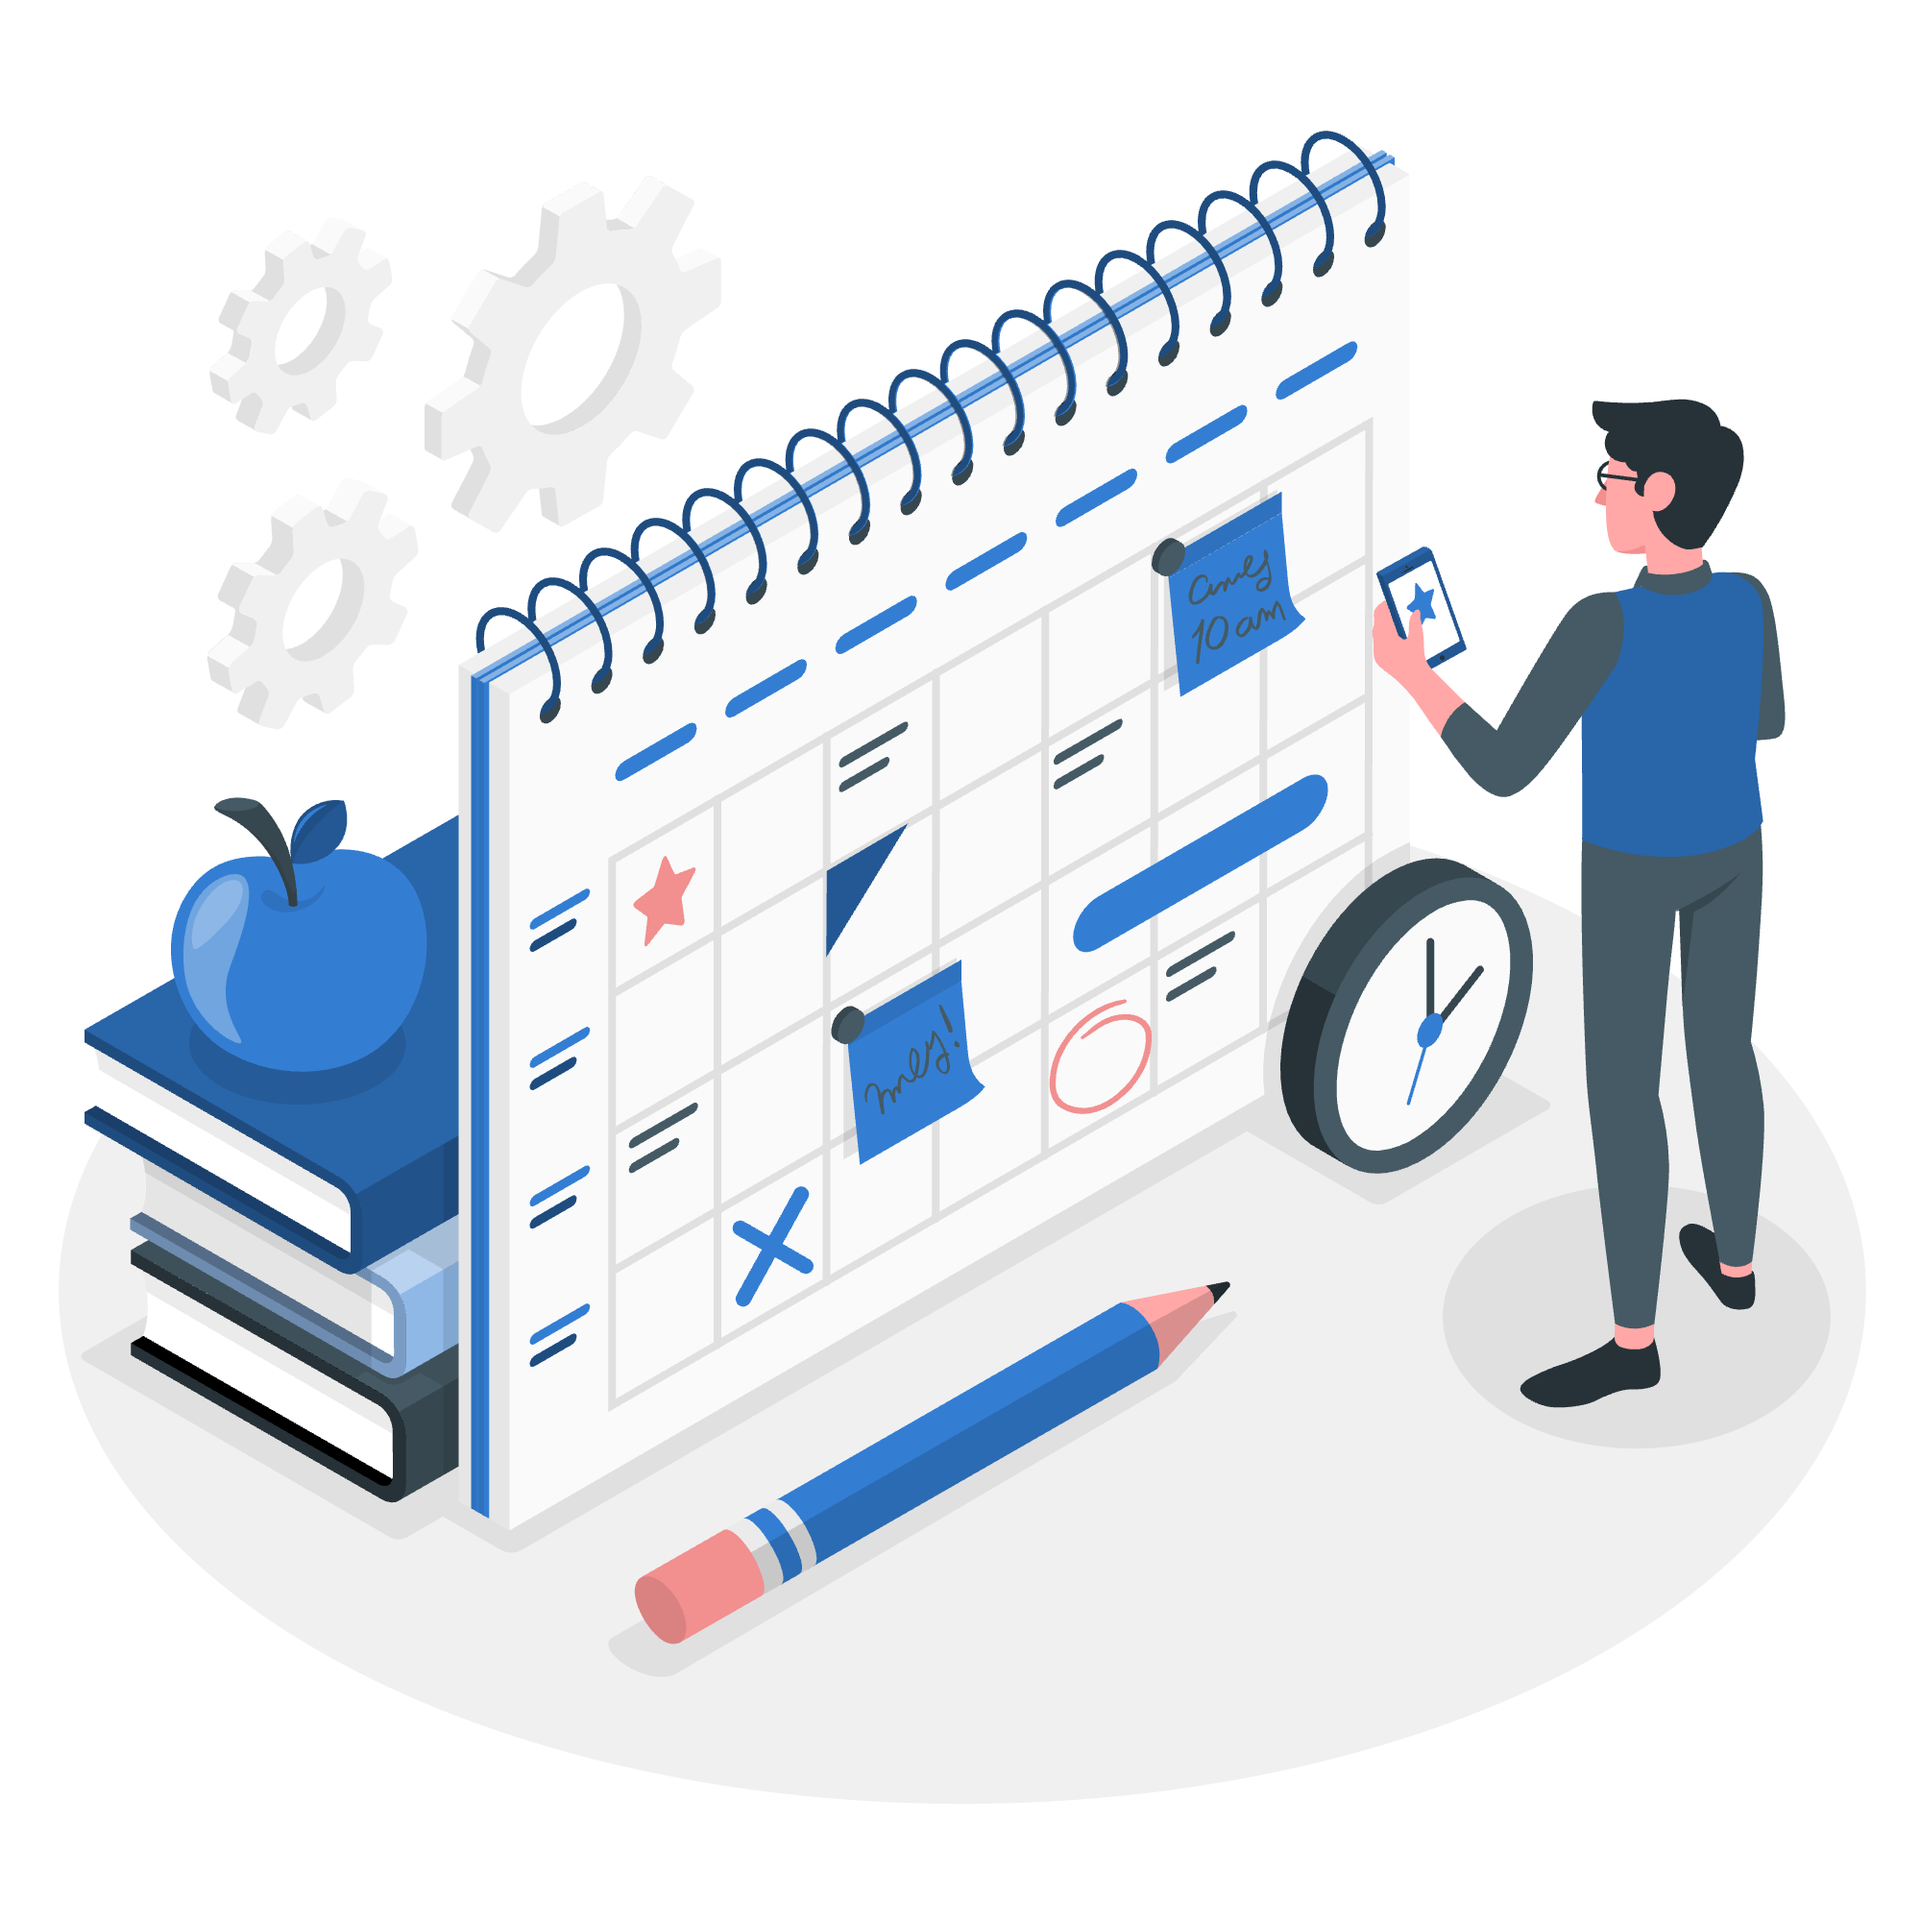
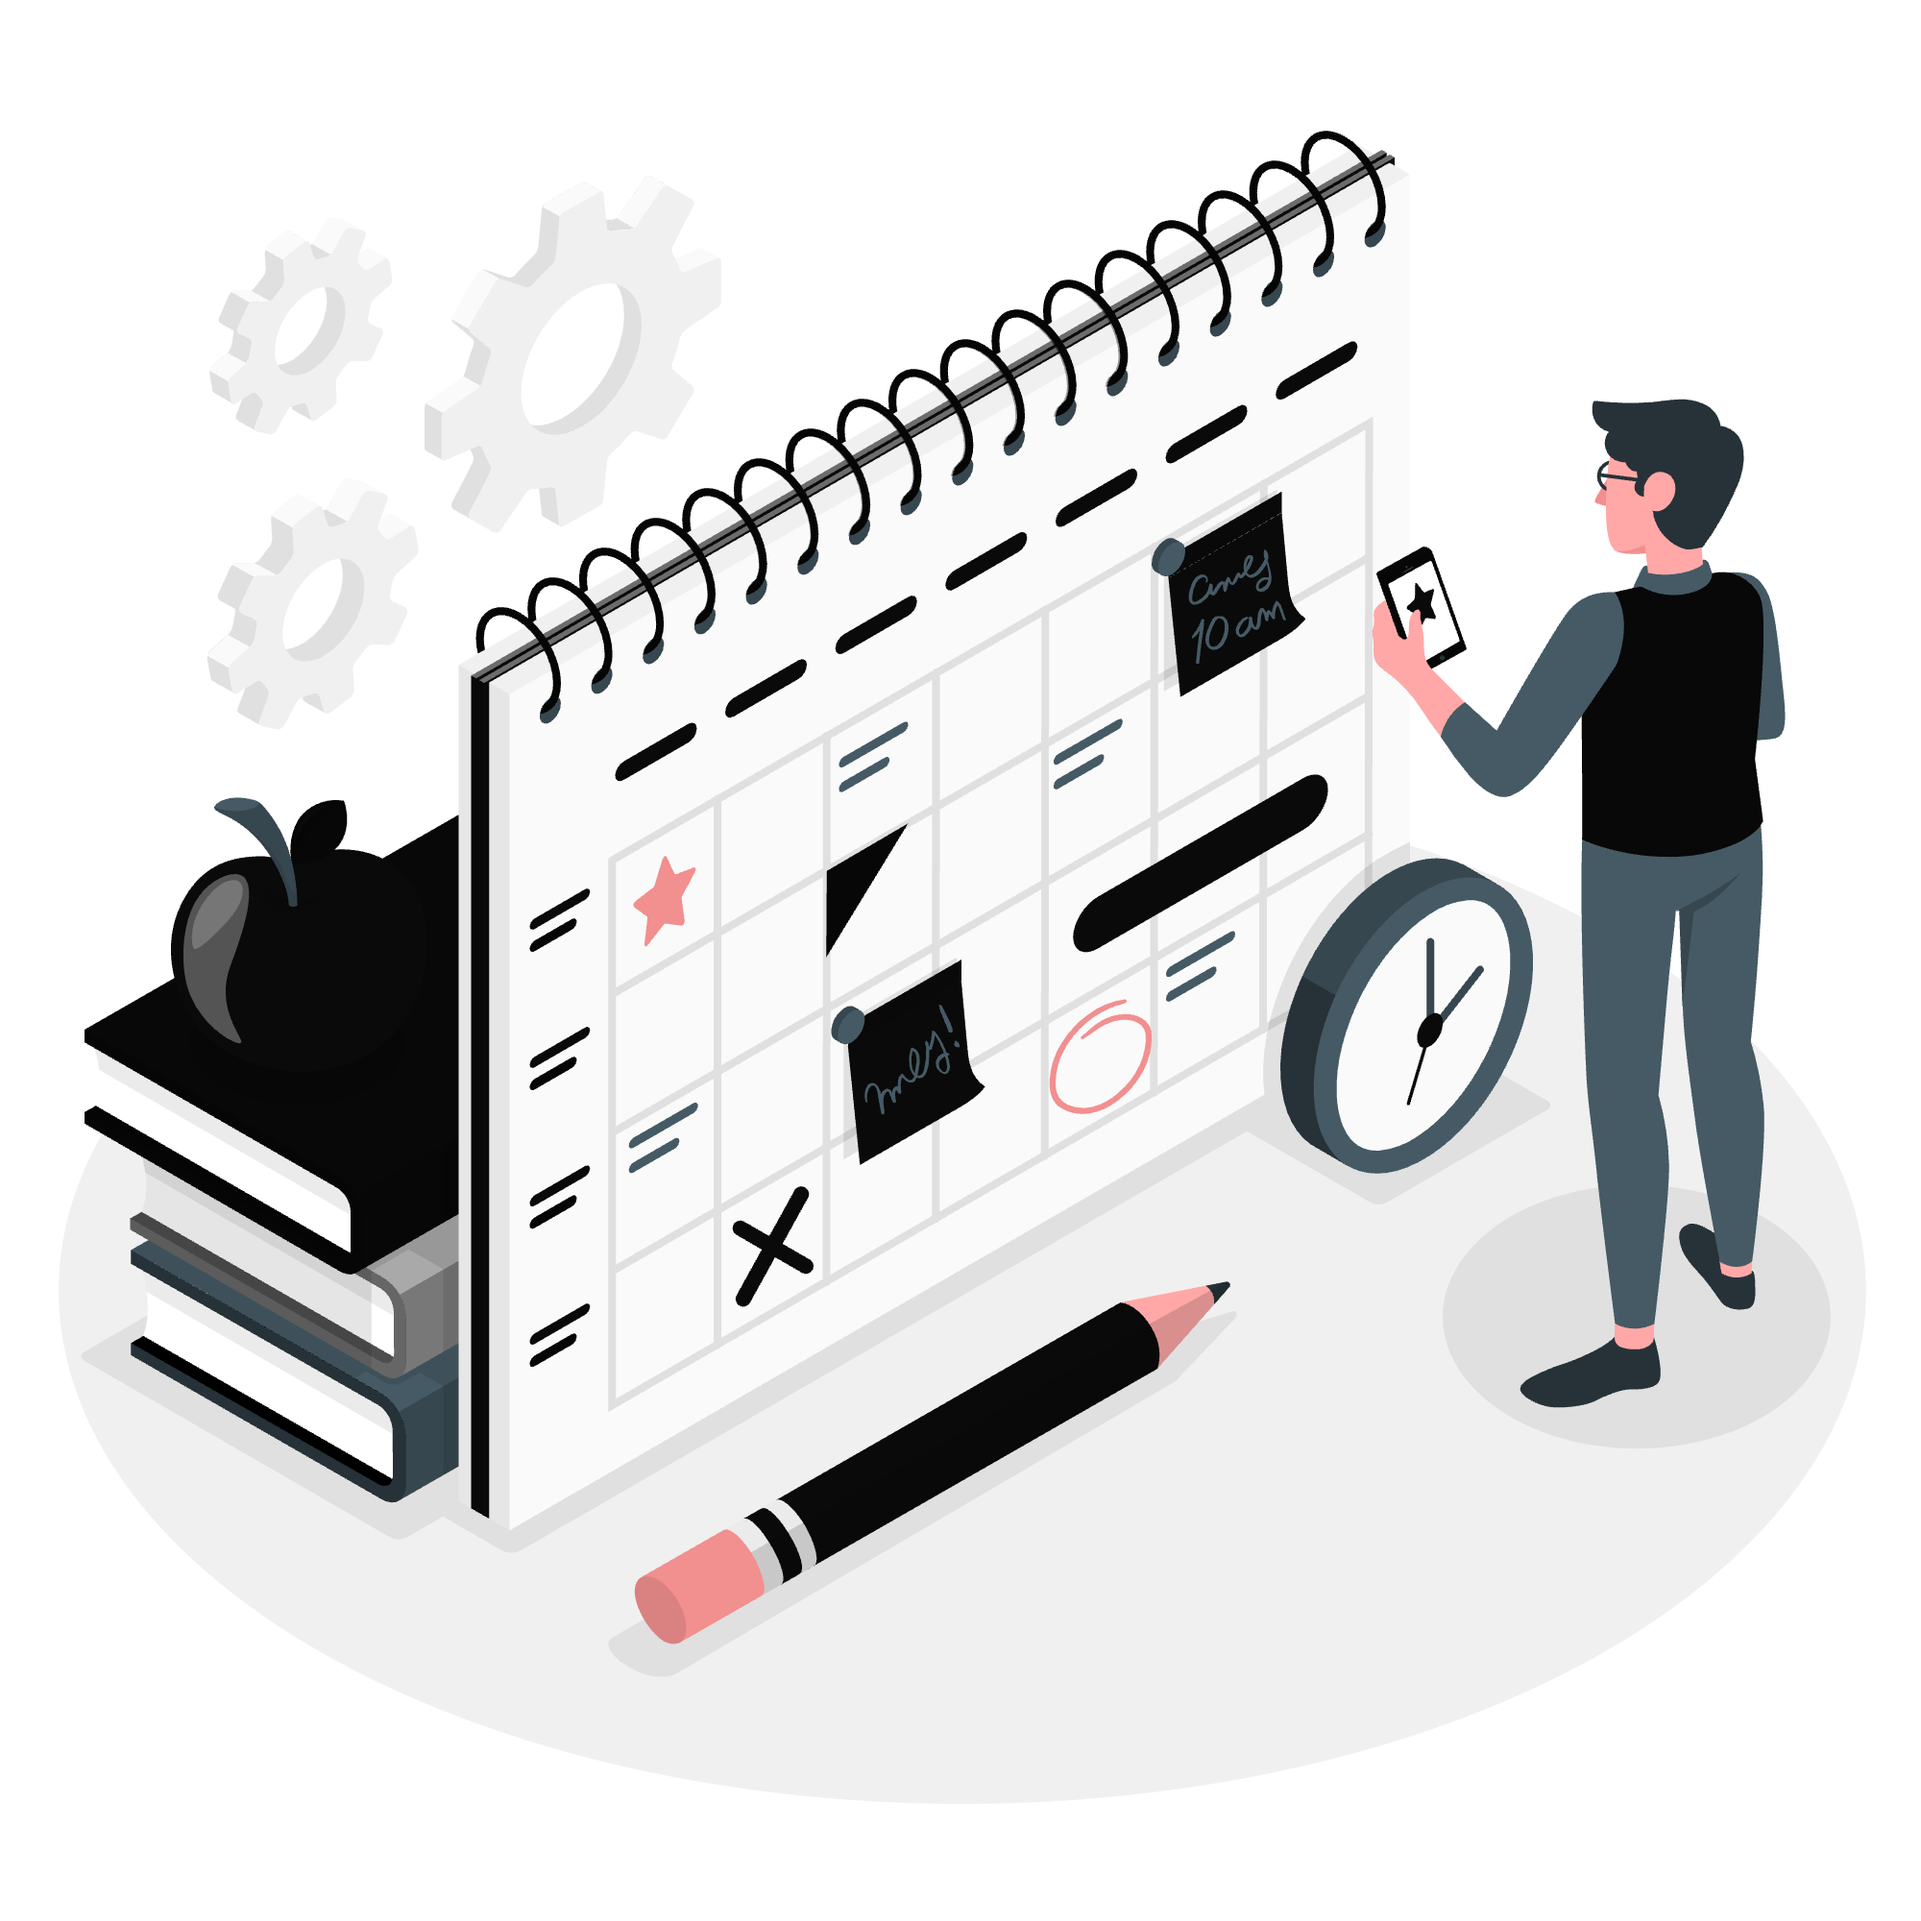
🎨 style: black & white theme

diff --git a/client/constants/theme.ts b/client/constants/theme.ts
@@ -5,11 +5,11 @@ export const lightTheme = {
   roundness: 2,
   colors: {
     ...MD3LightTheme.colors,
-    primary: "#337ed3", // aqua blue
-    secondary: "#715ddc", //light indigo
-    accent: "#8b8de6", //dark indigo
-    foreground: "#052347", //black
-    background: "#d9e3e8", // white & light blue
+    primary: "#0a0a0a", // black
+    secondary: "#dedde9", //white
+    accent: "#f3edf2", //white
+    foreground: "#020109", //black
+    background: "#fbfbfe", // white
   },
 };
 
@@ -17,10 +17,10 @@ export const darkTheme = {
   ...MD3DarkTheme,
   roundness: 2,
   colors: {
-    primary: "#2c78ce", // dark blue
-    secondary: "#191b76", //purple
-    accent: "#3724a3", //light purple
-    foreground: "#b7d5fa", // white & light blue
-    background: "#172126", // black
+    primary: "#f5f5f5", // dark blue
+    secondary: "#171622", //purple
+    accent: "#120c11", //light purple
+    foreground: "#f7f6fe", // white & light blue
+    background: "#010104", // black
   },
 };

diff --git a/client/app/home/(tabs)/index.tsx b/client/app/home/(tabs)/index.tsx
@@ -21,11 +21,11 @@ const CalendarScreen = () => {
           theme={{
             backgroundColor: "transparent",
             calendarBackground: "transparent",
-            todayTextColor: "#337ed3",
-            dayTextColor: "#052347",
+            todayTextColor: "#7f7d9c",
+            dayTextColor: "#363636",
             textDisabledColor: "#ccc",
-            arrowColor: "#337ed3",
-            monthTextColor: "#052347",
+            arrowColor: "#545454",
+            monthTextColor: "#363636",
             textMonthFontWeight: "bold",
             textDayFontWeight: "400",
             textDayFontSize: 16,
@@ -39,8 +39,8 @@ const CalendarScreen = () => {
             [selected]: {
               selected: true,
               disableTouchEvent: true,
-              selectedColor: "#8b8de695",
-              selectedTextColor: "#fff",
+              selectedColor: "#dedee9",
+              selectedTextColor: "#0a0a0a",
             },
           }}
         />

diff --git a/client/app/home/_layout.tsx b/client/app/home/_layout.tsx
@@ -6,16 +6,16 @@ export default function TabLayout() {
   return (
     <Tabs
       screenOptions={{
-        tabBarActiveTintColor: "#337ed3",
-        tabBarInactiveTintColor: "gray",
+        tabBarActiveTintColor: "#0a0a0a",
+        tabBarInactiveTintColor: "#999999",
         tabBarLabelStyle: {
           fontSize: 12,
           fontWeight: "bold",
         },
         tabBarStyle: {
-          backgroundColor: "#E8E8F7",
+          backgroundColor: "#dedde9",
           borderTopWidth: 1,
-          borderTopColor: "#715ddc",
+          borderTopColor: "#0a0a0a",
           paddingBottom: 15,
           paddingTop: 6,
           height: 80,

diff --git a/client/app/(auth)/otp.tsx b/client/app/(auth)/otp.tsx
@@ -76,7 +76,7 @@ const styles = StyleSheet.create({
   },
   header: {
     textAlign: "center",
-    color: "#337ed3",
+    color: "#0a0a0a",
   },
 
   caption: {
@@ -94,11 +94,11 @@ const styles = StyleSheet.create({
     height: 56,
     borderWidth: 1,
     borderRadius: 8,
-    borderColor: "#337ed3",
+    borderColor: "#0a0a0a",
     textAlign: "center",
     fontSize: 24,
     marginHorizontal: 4,
-    backgroundColor: "#f4f3f2",
+    backgroundColor: "#dedde9",
   },
   btn: {
     width: 180,

diff --git a/client/app/(auth)/signup.tsx b/client/app/(auth)/signup.tsx
@@ -116,7 +116,7 @@ const styles = StyleSheet.create({
   },
   orText: {
     marginHorizontal: 14,
-    color: "#337ed3",
+    color: "#0a0a0a",
     fontWeight: "bold",
   },
   line: {
@@ -134,7 +134,7 @@ const styles = StyleSheet.create({
     marginTop: 14,
   },
   textLink: {
-    color: "#337ed3",
+    color: "#545454",
     textDecorationLine: "underline",
   },
 });

diff --git a/client/app/(auth)/login.tsx b/client/app/(auth)/login.tsx
@@ -99,7 +99,7 @@ const styles = StyleSheet.create({
   },
   orText: {
     marginHorizontal: 14,
-    color: "#337ed3",
+    color: "#0a0a0a",
     fontWeight: "bold",
   },
   line: {
@@ -117,7 +117,7 @@ const styles = StyleSheet.create({
     marginTop: 14,
   },
   textLink: {
-    color: "#337ed3",
+    color: "#545454",
     textDecorationLine: "underline",
   },
 });
